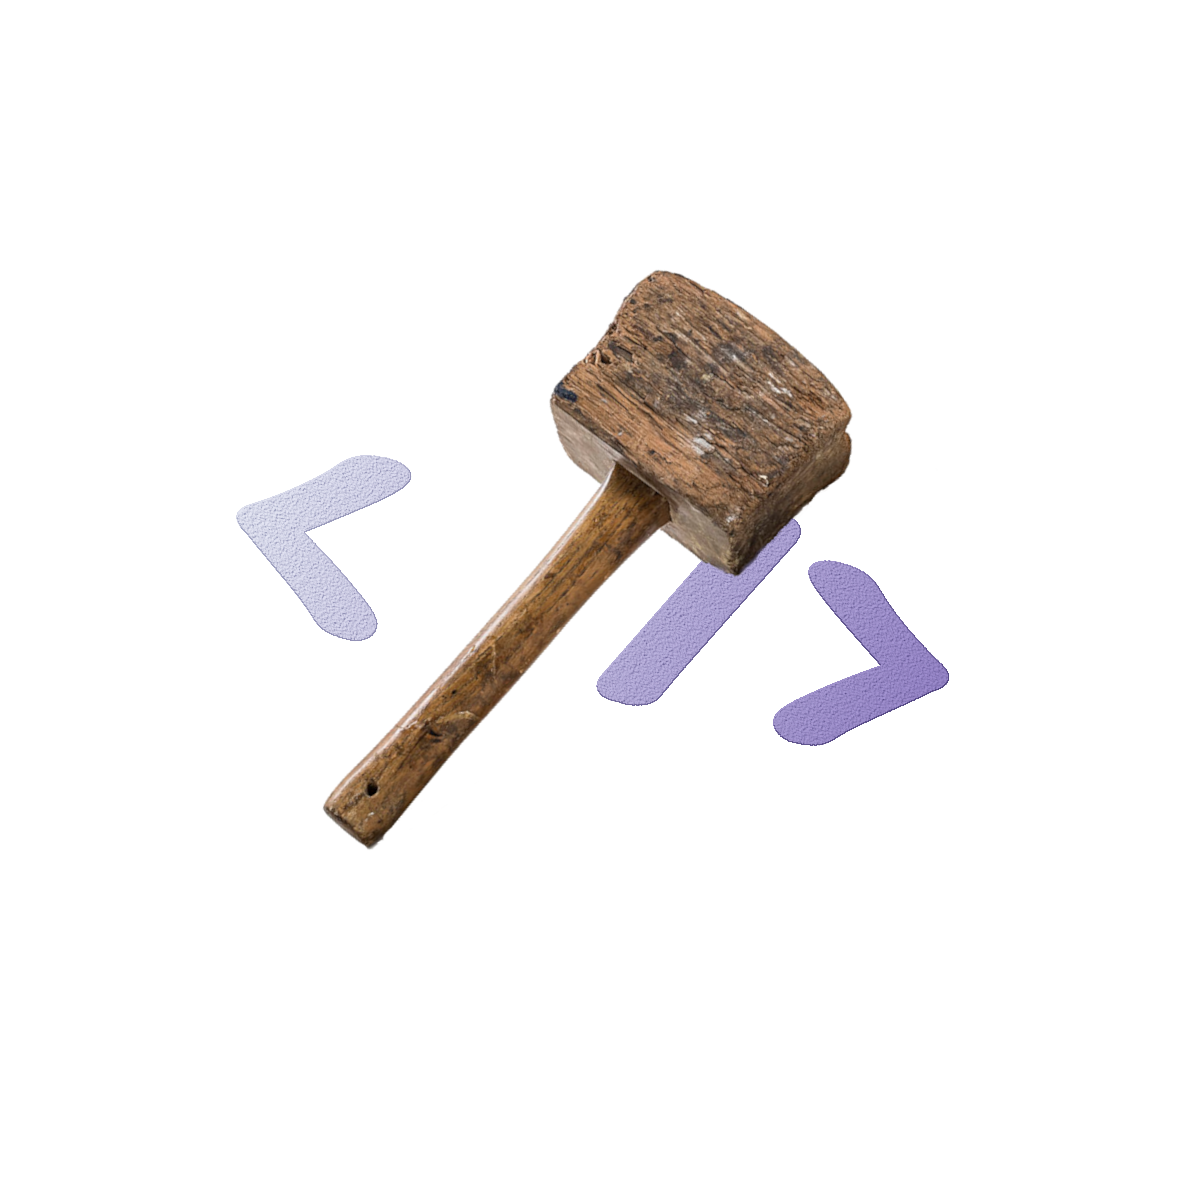
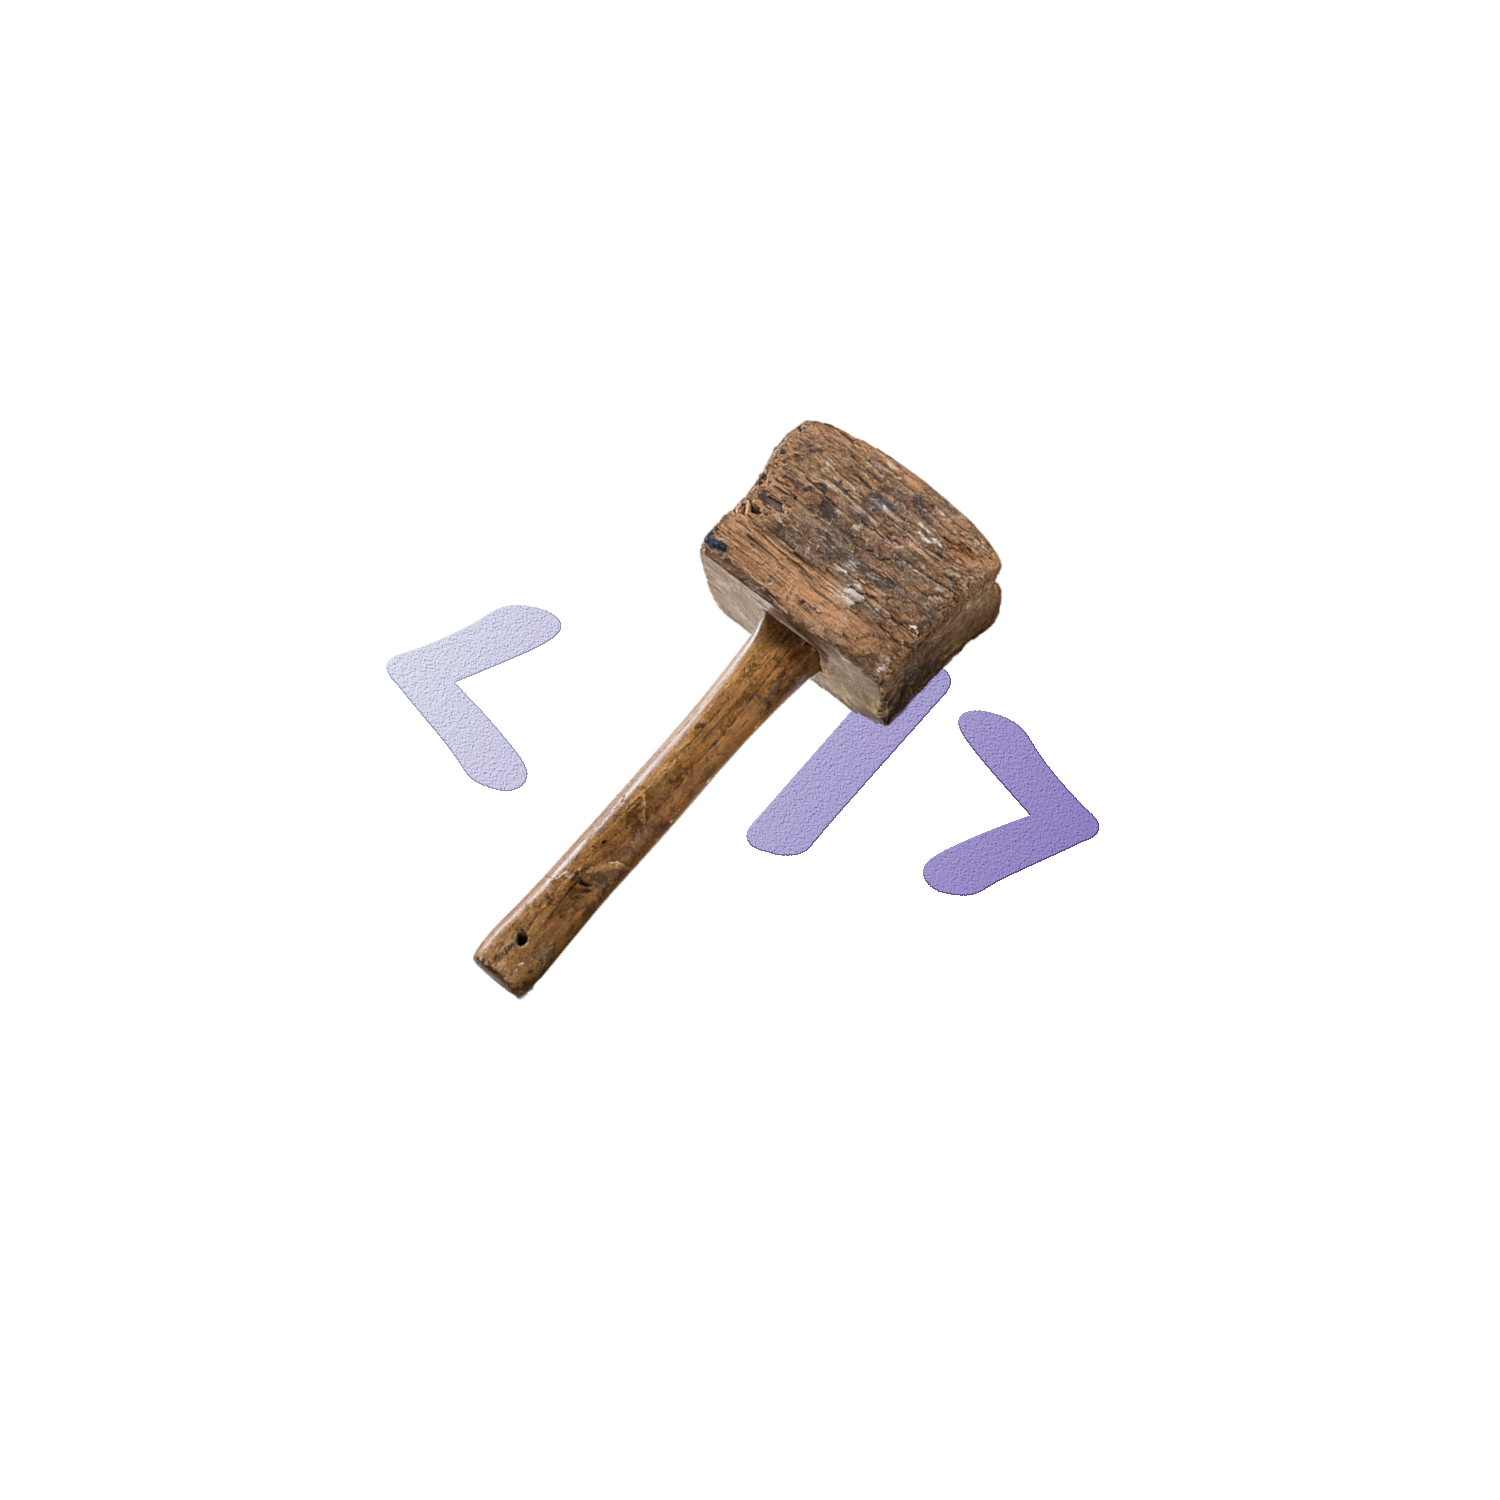
resized png background and updated meta tags

Changed region(s): [[0.2467, 0.2158, 0.8017, 0.7092], [0.185, 0.37, 0.37, 0.555]]

diff --git a/public/index.html b/public/index.html
@@ -7,9 +7,9 @@
 
 <meta property="og:title" content="fccTempLate">
 <meta property="og:type" content="website" />
-<meta property="og:description" content="Template for FreeCodeCamp.com React Projects.">
+<meta property="og:description" content="Template for FreeCodeCamp.com React Projects with FontAwesome, BootStrap and Analytics.">
 <!-- <meta property="og:image" content="https://raw.githubusercontent.com/TurtleWolfe/fccTempLate/master/src/images/metaPreview.png"> -->
-<meta property="og:image" content="https://raw.githubusercontent.com/TurtleWolfe/fccTempLate/master/src/images/metaTempLate.png">
+<meta property="og:image" content="https://raw.githubusercontent.com/TurtleWolfe/fccTempLate/master/src/images/metaFAvertical.png">
 <meta property="og:url" content="https://turtlewolfe.github.io/fccTempLate/">
 <meta name="twitter:card" content="summary_large_image">
 

diff --git a/src/App.css b/src/App.css
@@ -1,5 +1,5 @@
 i {
-  color: darkblue;
+  color: blue;
 }
 
 .App {
@@ -56,7 +56,7 @@ i {
   max-width: 16em;
   margin: auto;
   overflow: hidden;
-  background-image: url(./images/script-n-hammerSM.png);
+  background-image: url(./images/script-n-hammer.png);
   background-size: 100% auto;
   background-repeat: no-repeat;
 }
